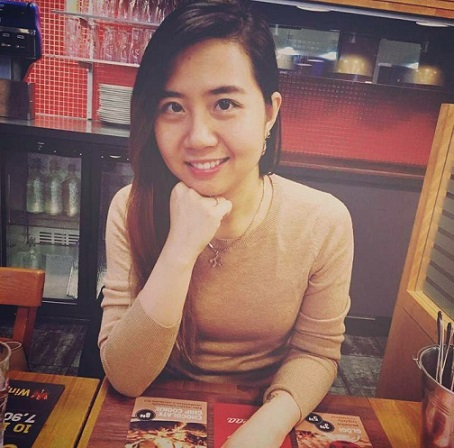
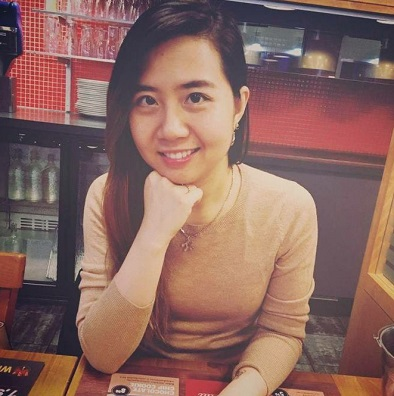
change color and template

diff --git a/html/home.html b/html/home.html
@@ -1,70 +1,83 @@
-<div class="container">
-  <h1 class="title"><strong>My skills</strong></h1>
-  <div class="row">
-   <div class="col-md-6">
-     <img src="../images/Pic_7.jpg">
-   </div>
-   <div class="col-md-4">
-     <ul class="skill">
-       <li>HTML5</li>
-       <li>CSS3</li>
-       <li>Javascript</li>
-       <li>jQuery</li>
-       <li>Bootstrap</li>
-       <li>AngularJS</li>
-       <li>Photoshop</li>
-     </ul>
-   </div>
-  </div>
-</div>
+<div>
 
-<div class="middle">
+  <div class="banner">
+    <div class="container">
+      <h1><strong>Inspired by You</strong></h1>
+      <h3><strong><em>To be Inspired is Great, to Inspire is Incredible</em></strong></h3>
+    </div>
+  </div>
+
+  <div class="space"></div>
+
   <div class="container">
-   <h1><strong>A little about me</strong></h1>
-   <div class="col-md-6">
-     <img class="profile" src="../images/Pic_1.jpg">
-   </div>
-   <div class="col-md-6">
-     <p class="pull-right">I'm Tiffany and I am studying to become a front-end developer. </br></br>
-     I enjoy spending my spare time sharpening my front-end skills, playing video games or just hanging out with my closest friends.</br></br>
-     If you are like me and have a passion for web development, you'll feel right at home here on my page.
-     </p>
-   </div>
-  </div>
-</div>
+    <h1 class="title"><strong>My skills</strong></h1>
 
-<div class="contact">
+    <div class="row">
+     <div class="col-md-6">
+       <img class="img-responsive" src="../images/Pic_7.jpg">
+     </div>
+     <div class="col-md-4">
+       <ul class="skill">
+         <li>HTML5</li>
+         <li>CSS3</li>
+         <li>Javascript</li>
+         <li>jQuery</li>
+         <li>Bootstrap</li>
+         <li>AngularJS</li>
+         <li>Photoshop</li>
+       </ul>
+     </div>
+    </div>
+  </div>
+
+  <div class="space"></div>
+
   <div class="container">
-   <div class="number col-md-6">
-     <p><i class="fa fa-mobile" aria-hidden="true"></i> Phone number: +358 458505591  </br>
-       <i class="fa fa-envelope-o" aria-hidden="true"></i> Email: tiffanyle308@gmail.com</p>
-   </div>
-   <div class="col-md-6">
-     <form role="form-inline">
-       <p class="cont-me"><strong>Contact me</strong></p>
-       <div class="form-group">
-         <p class="firstname-error"></p>
-         <input type="text" class="form-control" id="firstname" placeholder="First Name" autocomplete="off">
+    <div class="middle">
+       <h1><strong>A little about me</strong></h1>
+       <div class="col-md-6">
+         <p class="pull-right">I'm Tiffany and I am studying to become a front-end developer. </br></br>
+         I enjoy spending my spare time sharpening my front-end skills, playing video games or just hanging out with my closest friends.</br></br>
+         If you are like me and have a passion for web development, you'll feel right at home here on my page.
+         </p>
        </div>
-       <div class="form-group">
-         <p class="lastname-error"></p>
-         <input type="text" class="form-control" id="lastname" placeholder="Last Name" autocomplete="off">
+
+       <div class="col-md-6">
+         <img class="img-responsive" src="../images/Pic_1.jpg">
        </div>
-       <div class="form-group">
-         <p class="email-error"></p>
-         <input type="email" class="form-control" id="email" placeholder="Email" autocomplete="off">
-       </div>
-       <div class="message">
-         <p class="message-error"></p>
-         <input type="text" class="form-control" id="message" placeholder="Leave your message" autocomplete="off">
-       </div>
-       <button type="submit" class="btn"><strong>Send</strong></button>
-     </form>
-   </div>
+    </div>
   </div>
-</div>
 
-<div class="Grid">
-  <div class="Grid-cell"></div>
+  <div class="space"></div>
 
-</div>
+  <div class="contact">
+    <div class="container">
+     <div class="number col-md-6">
+       <p><i class="fa fa-mobile" aria-hidden="true"></i> Phone number: +358 458505591  </br>
+         <i class="fa fa-envelope-o" aria-hidden="true"></i> Email: tiffanyle308@gmail.com</p>
+     </div>
+     <div class="col-md-6">
+       <form role="form-inline">
+         <p class="cont-me"><strong>Contact me</strong></p>
+         <div class="form-group">
+           <p class="firstname-error"></p>
+           <input type="text" class="form-control" id="firstname" placeholder="First Name" autocomplete="off">
+         </div>
+         <div class="form-group">
+           <p class="lastname-error"></p>
+           <input type="text" class="form-control" id="lastname" placeholder="Last Name" autocomplete="off">
+         </div>
+         <div class="form-group">
+           <p class="email-error"></p>
+           <input type="email" class="form-control" id="email" placeholder="Email" autocomplete="off">
+         </div>
+         <div class="message">
+           <p class="message-error"></p>
+           <input type="text" class="form-control" id="message" placeholder="Leave your message" autocomplete="off">
+         </div>
+         </br>
+         <button type="submit" class="btn"><strong>Send</strong></button>
+       </form>
+     </div>
+    </div>
+  </div>

diff --git a/html/mainpage.html b/html/mainpage.html
@@ -4,28 +4,28 @@
       <meta name="viewport" content="width=device-width, initial-scale=1">
       <link rel="stylesheet" href="http://maxcdn.bootstrapcdn.com/bootstrap/3.3.6/css/bootstrap.min.css">
       <link rel="stylesheet" href="http://cdnjs.cloudflare.com/ajax/libs/font-awesome/4.6.3/css/font-awesome.min.css">
-      <link href='https://fonts.googleapis.com/css?family=Playfair+Display' rel='stylesheet' type='text/css'>
+      <link href="https://fonts.googleapis.com/css?family=Work+Sans" rel="stylesheet" type="text/css">
       <link type="text/css" rel="stylesheet" href="../css/mainpage.css"/>
       <title>Tiffany</title>
     </head>
 
-    <body class="container">
+    <body>
 
-        <nav header></nav>
+      <div header></div>
 
-        <div class="container">
-          <div class="display" ui-view></div><!--Content of the navbar -->
-        </div>
+      <div>
+        <div class="display" ui-view></div><!--Content of the navbar -->
+      </div>
 
-        <div footer></div>
+      <div footer></div>
 
 
-        <script src="https://ajax.googleapis.com/ajax/libs/jquery/1.12.4/jquery.min.js"></script>
-        <script src="http://maxcdn.bootstrapcdn.com/bootstrap/3.3.6/js/bootstrap.min.js"></script>
-        <script src="https://ajax.googleapis.com/ajax/libs/jquery/1.12.4/jquery.min.js"></script>
-        <script src="https://cdnjs.cloudflare.com/ajax/libs/angular.js/1.5.7/angular.min.js"></script>
-        <script src="http://angular-ui.github.io/ui-router/release/angular-ui-router.js"></script>
-        <script src="../app.js"></script>
+      <script src="https://ajax.googleapis.com/ajax/libs/jquery/1.12.4/jquery.min.js"></script>
+      <script src="http://maxcdn.bootstrapcdn.com/bootstrap/3.3.6/js/bootstrap.min.js"></script>
+      <script src="https://ajax.googleapis.com/ajax/libs/jquery/1.12.4/jquery.min.js"></script>
+      <script src="https://cdnjs.cloudflare.com/ajax/libs/angular.js/1.5.7/angular.min.js"></script>
+      <script src="http://angular-ui.github.io/ui-router/release/angular-ui-router.js"></script>
+      <script src="../app.js"></script>
     </body>
 
 </html>

diff --git a/html/myblog.html b/html/myblog.html
@@ -5,13 +5,13 @@
   </div>
 </div>
 
-<div class="space1"></div>
+<div class="space"></div>
 
 <div class="container">
   <div class="section">
     <div class="row">
         <div class="col-md-6 left">
-            <!-- <img src="https://lexlovescouture.files.wordpress.com/2015/01/beautyproducts_featured.jpg"/> -->
+            <img class="img-responsive" src="https://lexlovescouture.files.wordpress.com/2015/01/beautyproducts_featured.jpg"/>
             <div class="mask">
               <h2><strong>Style yourself</strong></h2>
               <p><strong>You are in a beauty contest every day of your life.</strong></p>
@@ -41,7 +41,7 @@
         </div>
 
         <div class="col-md-6 right">
-            <!-- <img src="http://www.wellandgood.com/wp-content/uploads/2015/06/brightening_skincare_clair_de_lune.jpg"/> -->
+            <img class="img-responsive" src="http://www.wellandgood.com/wp-content/uploads/2015/06/brightening_skincare_clair_de_lune.jpg"/>
             <div class="mask1">
               <h2><strong>Be yourself</strong></h2>
               <p><strong>Be bold. Be daring. Be simply beautiful.</strong></p>
@@ -58,7 +58,7 @@
   <div class="section2">
      <div class="row">
          <div class="col-md-6 left2">
-             <!-- <img src="http://2.bp.blogspot.com/-hRbc1m2rLLY/VHe4P_pkmSI/AAAAAAAACG8/waLhOJ9I4xQ/s1600/main.png"/> -->
+             <img class="img-responsive" src="http://2.bp.blogspot.com/-hRbc1m2rLLY/VHe4P_pkmSI/AAAAAAAACG8/waLhOJ9I4xQ/s1600/main.png"/>
              <div class="mask2">
                <h2><strong>Its tools time</strong></h2>
                <p><strong>There is no such thing as natural beauty.</strong></p>
@@ -73,7 +73,7 @@
              <p>Whether you want to get rid of acne, smooth wrinkles or detox your pores, these at-home beauty gadgets can help</p>
          </div>
      </div>
- </div>
+  </div>
 </div>
 
 <div class="space"></div>

diff --git a/css/mainpage.css b/css/mainpage.css
@@ -1,4 +1,52 @@
 html, body {
-  font-family: "Playfair Display", sans-serif;
-  font-size: 16px;
+    font-family: 'Work Sans', sans-serif;
+    font-size: 16px;
+    background-color: #C2BA9B;
+}
+
+/*-------Navbar-------*/
+
+.header {
+    background-color: #818C6D;
+    border: none;
+    margin: 50px 0 0 0;
+}
+
+.header .brand {
+    color: #ffffff;
+}
+
+.header .intro li a {
+    color: #ffffff;
+}
+
+.header .icon-bar {
+    background-color: #ffffff !important;
+}
+
+/*-------Home-------*/
+
+.banner {
+    height: 200px;
+    color: #fff;
+    text-align: center;
+    padding-top: 25px;
+    background: #0f587a transparent repeat top left;
+    background: -webkit-linear-gradient(left, #C2BA9B, #5e703d, #818C6D);
+    background: -o-linear-gradient(right, #C2BA9B, #5e703d, #818C6D);
+    background: -moz-linear-gradient(right, #C2BA9B, #5e703d, #818C6D);
+    background: linear-gradient(to right, #C2BA9B, #5e703d, #818C6D);
+    opacity: 0.5;
+}
+
+
+.space {
+    margin: 100px 0 100px 0;
+}
+
+
+/*-------Footer-------*/
+
+.social-icons a {
+    color: #5e703d;
 }

diff --git a/html/header.html b/html/header.html
@@ -1,5 +1,5 @@
 
-  <nav class="navbar navbar-inverse">
+  <nav class="navbar navbar-default header">
     <div class="container-fluid">
       <div class="navbar-header">
         <button type="button" class="navbar-toggle" data-toggle="collapse" data-target="#myNavbar">
@@ -7,17 +7,17 @@
           <span class="icon-bar"></span>
           <span class="icon-bar"></span>
         </button>
-        <a class="navbar-brand" href="#">Tiffany</a>
+        <a class="navbar-brand brand" href="#">Tiffany</a>
       </div>
 
       <div class="collapse navbar-collapse" id="myNavbar">
-        <ul class="nav navbar-nav">
+        <ul class="nav navbar-nav intro">
           <li><a ui-sref="home">Home</a></li>
           <li><a ui-sref="portfolio">Portfolio</a></li>
           <li><a ui-sref="myblog">My Blog</a></li>
         </ul>
 
-        <ul class='nav navbar-nav navbar-right'>
+        <ul class='nav navbar-nav navbar-right intro'>
           <li><a ui-sref="#">SignUp</a></li>
           <li><a ui-sref="#">LogIn</a></li>
         </ul>

diff --git a/html/footer.html b/html/footer.html
@@ -1,5 +1,6 @@
-<div class='col-md-3 social-icons pull-right'>
-  <a href="https://www.facebook.com/tiffany.hoangle"><i class="fa fa-facebook"></i> Facebook</a>
-  <a href="https://www.instagram.com/"><i class="fa fa-instagram"></i> Instagram</a>
-  <a href="https://www.linkedin.com/in/bubblehoangle?trk=nav_responsive_tab_profile_pic"><i class="fa fa-linkedin"></i> LinkedIn</a>
-</div>
+
+  <div class='col-md-3 social-icons pull-right'>
+    <a href="https://www.facebook.com/tiffany.hoangle"><i class="fa fa-facebook fa-3x"></i></a>
+    <a href="https://www.instagram.com/"><i class="fa fa-instagram fa-3x"></i></a>
+    <a href="https://www.linkedin.com/in/bubblehoangle?trk=nav_responsive_tab_profile_pic"><i class="fa fa-linkedin-square fa-3x"></i></a>
+  </div>
